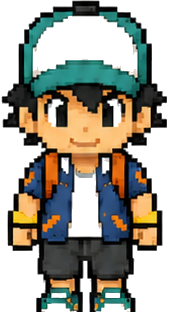
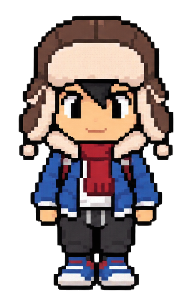
design: 겨울 캐릭터 미리보기 이미지 교체 및 정렬 보정 (#243)

diff --git a/src/features/auth/ui/NicknameChangeButton.tsx b/src/features/auth/ui/NicknameChangeButton.tsx
@@ -58,10 +58,7 @@ export function NicknameChangeButton({ townConnectionStatus }: NicknameChangeBut
             alt=""
             width={character.previewImageWidth}
             height={character.previewImageHeight}
-            className={cn(
-              "absolute -top-2 left-1/2 h-auto max-w-none -translate-x-1/2 p-[10%] [image-rendering:pixelated]",
-              character.id === "p-girl" ? "ml-1.5 w-14" : "w-11",
-            )}
+            className="absolute -top-2 left-1/2 h-auto w-14 max-w-none -translate-x-1/2 p-[10%] [image-rendering:pixelated]"
             unoptimized
           />
         </span>

diff --git a/src/features/auth/ui/NicknameForm.tsx b/src/features/auth/ui/NicknameForm.tsx
@@ -124,7 +124,7 @@ export function NicknameForm() {
           <CarouselContent>
             {CHARACTER_OPTIONS.map((character) => (
               <CarouselItem key={character.id}>
-                <div className="flex h-40 items-end justify-center rounded-lg border bg-white p-4">
+                <div className="flex h-40 items-center justify-center rounded-lg border bg-white p-4">
                   <Image
                     src={character.previewAssetUrl}
                     alt={`${character.name} 캐릭터 미리보기`}
